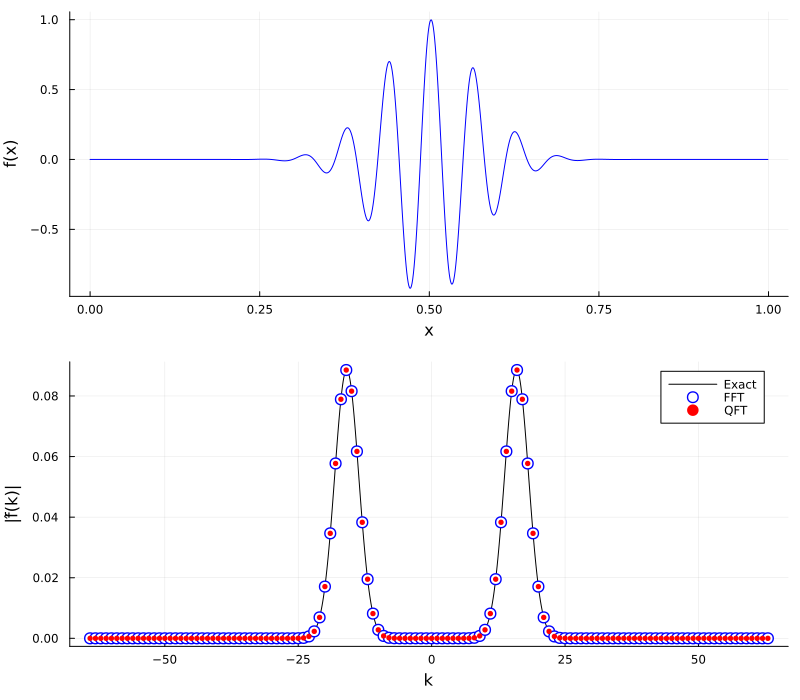
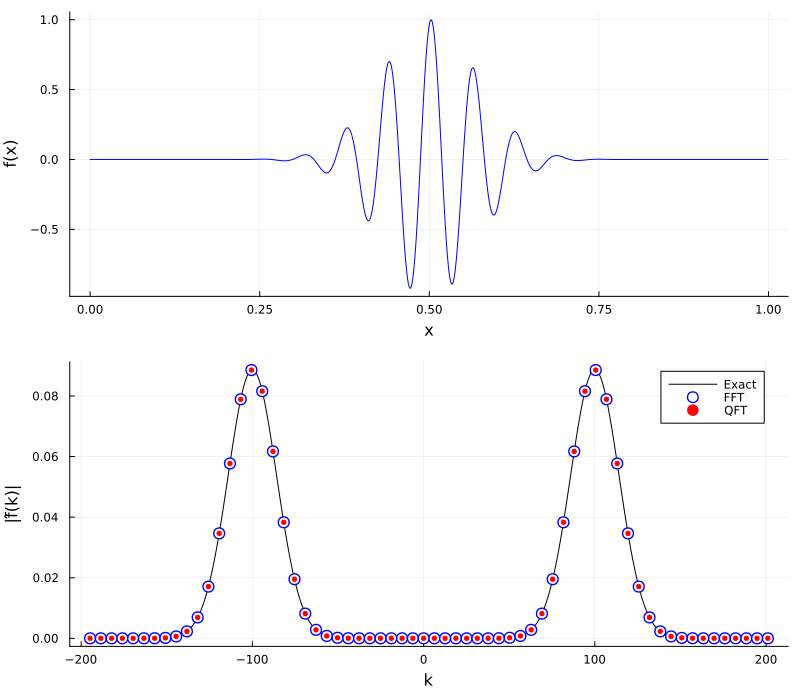
HO3 Improvements (#24)
- **Various expansions and improvements to hands on 3**
- **Simplify some codes**
- **Improvements to QFT tutorial**

---------

diff --git a/Tutorials/HandsOn3/README.md b/Tutorials/HandsOn3/README.md
@@ -27,8 +27,46 @@ julia> ]
 <details>
   <summary><h2>Tutorial 1: Load and Plot a QTT Function</h2></summary>
 
-In this introductory tutorial, you will load and plot a one-dimensional
+In this tutorial, you will load and plot a one-dimensional
 function encoded as an MPS in the quantics tensor train (QTT) format.
+
+Include the file `include("1-load-function.jl")` and run the `main()` 
+function and observe the output and plotting window.
+
+A typical output might be:
+```
+julia> res = main();
+Loading function: f(x) = exp(-(x-0.5)^2/0.01)*cos(100*x)
+W = 1.000E-02
+a = 1.000E+02
+Performing tensor cross interpolation:
+After sweep 1, max error = 1.3375404419083188e6
+After sweep 2, max error = 0.0004152201100605102
+After sweep 3, max error = 1.1156810197920919e-10
+After sweep 4, max error = 8.735276391114155e-11
+After sweep 5, max error = 8.735276391114155e-11
+
+Interpolated function onto 2^32 = 4294967296 virtual grid points
+Tensor cross performed 2538 calls to the function
+Max rank χ=10
+
+Error on extracted (plotted) points = 8.9106E-10
+```
+<p align="center">
+  <img src="resources/images/1-plotting-output.png" alt="Plotting output for Tutorial" width="800">
+</p>
+
+1. Change the various inputs to the `main` function, such as the frequency `a` of the function
+   or the parameters controlling the tensor cross function used to "load" or interpolate `f(x)`. 
+   Can you get the error to be large or otherwise get the tensor cross to fail? What do you suspect
+   might be the reason for the failure?
+
+2. What's the most complicated function you can successfully load? Try something with multiple scales.
+
+3. For an optional challenge, can you alter the `extract_function_values` function at the top
+   of the file to plot over a custom x range `[x1,x2)` instead of the full `[0,1)`? What is the most
+   elegant way to accomplish this using the QTT matrix product state representation of the function?
+
 
 </details>
 
@@ -36,7 +74,7 @@ function encoded as an MPS in the quantics tensor train (QTT) format.
 <details>
   <summary><h2>Tutorial 2: Integrate a QTT Function</h2></summary>
 
-In this tutorial, you will complete a Julia function that integrates a
+In this tutorial, you will implement a Julia function that integrates a
 one-dimensional function encoded as an MPS in the quantics tensor train (QTT)
 format.
 
@@ -66,13 +104,13 @@ ITensors making up the integration diagram above, ultimately resulting in a scal
 Add the missing line or lines of code inside the provided loop to create the vectors (black dots)
 in the diagram above and contract them with each MPS tensor and accumulate (contract) the result into `I`.
 
-To make a single-index ITensor with index `s` and elements `[a,b]`, use `ITensor([a,b], s)`.
+   To make a single-index ITensor with index `s` and elements `[a,b]`, use `ITensor([a,b], s)`.
 
 3. Once you have a working `integrate` function, rerun `res = main();` in the Julia terminal and see if you now get a reasonable approximation of $\pi$. Adjust the width $W$ to smaller values to see how much you can improve the approximation.
 
 4. As optional "stretch goals", try changing the function to another one you believe is challenging to integrate (e.g. highly oscillatory or multi-scale functions). Does the loading and integration process continue to work or eventually break? 
 
-Another optional goal is to modify the `integrate` function to integrate over a different region besides $[0,1)$.
+   Another optional goal is to modify the `integrate` function to integrate over a different region besides $[0,1)$.
 
 </details>
 
@@ -99,8 +137,9 @@ Do any land close to the global maximum or minimum?
 and the tensor cross interpolation parameters `maxdim` and `cutoff`.
 
 3. As an optional "stretch goal", think about how sampling could be used to search for the optima of a function 
-without a brute-force search. For example, how would the samples be distributed if the MPS represented a power 
-of the function such as $f(x,y)^2$ instead?
+without a brute-force search:
+    * How would the samples be distributed if the MPS represented a power of the function such as $f(x,y)^2$ instead?
+    * Can you devise a recursive "divide-and-conquer" approach based on sampling of MPS to recursively zoom into regions which are likely to contain the global maximum or minimum?
 
 </details>
 
@@ -113,9 +152,9 @@ in the QTT format by applying the quantum Fourier transform (QFT) to it as an MP
 
 Despite its name, the QFT is just the discrete Fourier transform
 
-$$\hat{f}(k) = \frac{1}{\sqrt{N}} \sum_{x} f(x)\, e^{-2\pi i k x}$$
+$$\frac{1}{\sqrt{N}} \sum_{x} f(x)\, e^{-2\pi i j x}\ , \quad j=0,1,\ldots,N-1$$
 
-acting on all $N=2^n$ grid points. Remarkably, it can be written as an MPO of small rank once the 
+acting on all $N=2^n$ grid points $x$. Remarkably, it can be written as an MPO of small rank once the 
 order of the output bits is reversed. The code in `resources/quantum_fourier_transform.jl` constructs this MPO 
 directly using polynomial interpolation, following the paper:
 
@@ -123,7 +162,12 @@ directly using polynomial interpolation, following the paper:
 as a matrix product operator", [arXiv:2404.03182](https://arxiv.org/abs/2404.03182)
 
 The function being transformed is the same oscillating Gaussian $f(x) = e^{-(x-1/2)^2/W} \cos(a x)$ from Tutorial 1,
-whose Fourier transform is a pair of Gaussians centered at $k = \pm a/2\pi$. The results of the QFT are compared
+whose Fourier transform is a pair of Gaussians centered at $k = \pm a$. Here we use the convention
+
+$$\hat{f}(k) = \int f(x)\, e^{i k x}\, dx$$
+
+for the Fourier transform, so that dividing the output of the QFT by $\sqrt{N}$ gives $\hat{f}(k)$ at the wavevectors $k=-2\pi j$. 
+(These are spaced by $2\pi$ because $f(x)$ is defined on an interval of length 1.) The results of the QFT are compared
 to the exact Fourier transform and to a conventional fast Fourier transform (FFT) computed with FFTW.
 
 <p align="center">
@@ -137,15 +181,19 @@ QFT, FFT, and exact results agree, and compare the times taken by the QFT and th
 How do the ranks of the two MPS change? (You may need to increase `log_nfreqs` to see larger frequencies.)
 
    Always check the plot of $f(x)$ too: for very narrow functions, such as `W=1E-3`, tensor cross interpolation can miss
-part of the peak and load the wrong function even though it reports a small error. When this happens the QFT (which transforms
-the loaded MPS) no longer agrees with the FFT and exact results (which use the true function).
+   part of the peak and load the wrong function even though it reports a small error. When this happens the QFT (which transforms
+   the loaded MPS) no longer agrees with the FFT and exact results (which use the true function).
 
 3. Increase the number of bits `n` in steps of two, such as `main(; n=18)`, `main(; n=20)`, .... The cost of the FFT scales as 
 $N \log N$ with $N=2^n$, while the QFT scales only linearly in $n$. At what `n` does the QFT become faster?
 (Be careful going beyond `n=26` or so, where the vector used by the FFT starts requiring gigabytes of memory.)
 
-4. As an optional "stretch goal", read the function `extract_fourier_values` to understand how the low positive and
+4. As an optional "stretch goal", read the function `extract_fourier_transform_values` to understand how the low positive and
 negative frequencies are extracted from the MPS `Mk`. Then try transforming a different function, such as the
 Cauchy distribution from Tutorial 2, whose Fourier transform decays exponentially in $|k|$.
+
+   Note that the "Exact" curve in the plot comes from the function `exact(k)` defined near the end of `main`, which is 
+   only correct for the original oscillating Gaussian. When you change `f(x)`, either update `exact(k)` to the Fourier 
+   transform of your new function or remove that curve from the plot and compare the QFT to the FFT only.
 
 </details>
